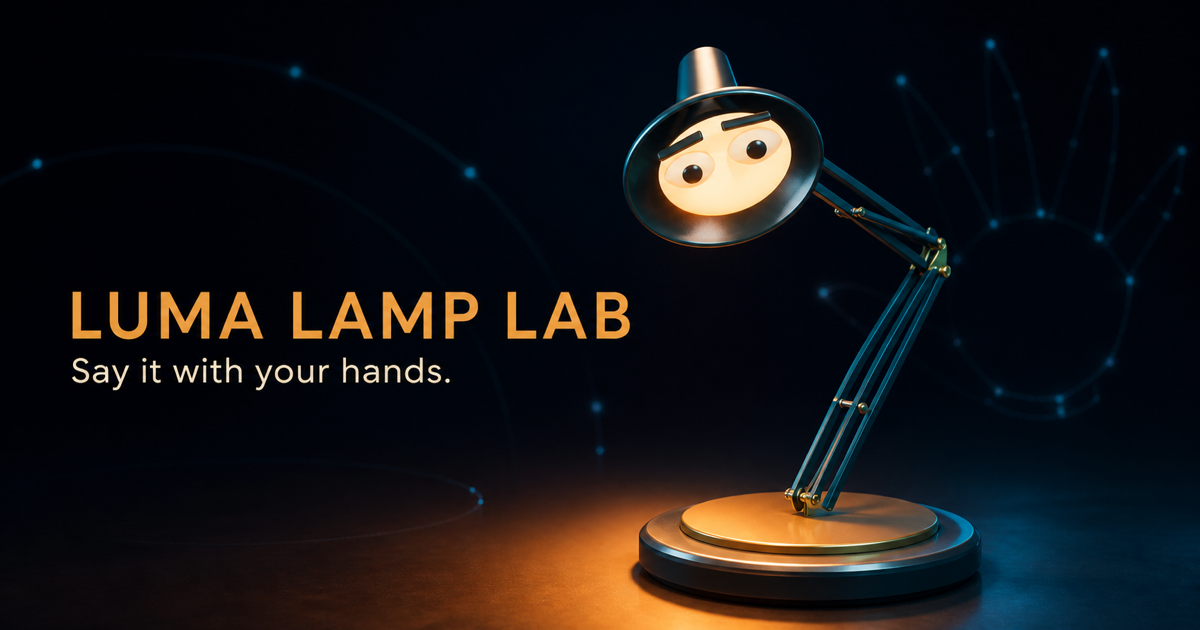
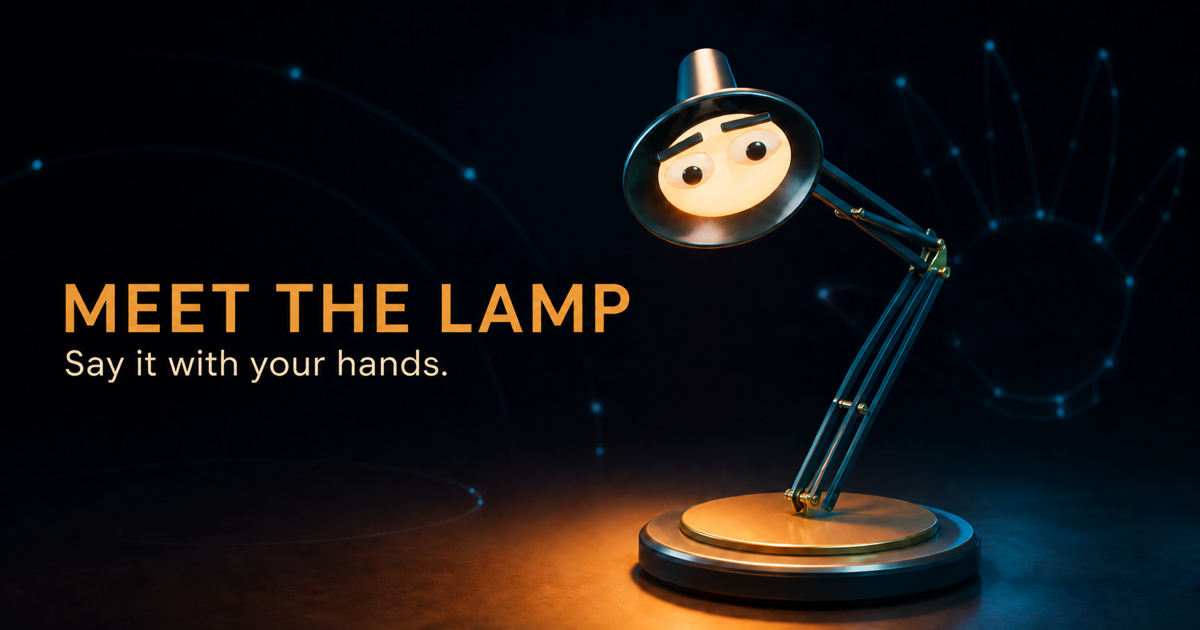
Remove lamp branding

diff --git a/projects/lamp/LampLab.tsx b/projects/lamp/LampLab.tsx
@@ -297,7 +297,7 @@ function createLampScene(
   const beamTargetPoint = new THREE.Vector3();
 
   new GLTFLoader().load(
-    "/lamp/luma-character-lamp.glb",
+    "/lamp/character-lamp.glb",
     (gltf) => {
       lamp = gltf.scene;
       lamp.scale.setScalar(1.43);
@@ -751,7 +751,7 @@ export default function LampLab() {
 
   useEffect(() => {
     let cancelled = false;
-    const saved = localStorage.getItem("luma-gesture-mappings");
+    const saved = localStorage.getItem("lamp-gesture-mappings");
     if (!saved) return;
     try {
       const parsed = JSON.parse(saved) as Partial<GestureMappings>;
@@ -759,14 +759,14 @@ export default function LampLab() {
         if (!cancelled) setMappings({ ...DEFAULT_MAPPINGS, ...parsed });
       });
     } catch {
-      localStorage.removeItem("luma-gesture-mappings");
+      localStorage.removeItem("lamp-gesture-mappings");
     }
     return () => { cancelled = true; };
   }, []);
 
   useEffect(() => {
     mappingsRef.current = mappings;
-    localStorage.setItem("luma-gesture-mappings", JSON.stringify(mappings));
+    localStorage.setItem("lamp-gesture-mappings", JSON.stringify(mappings));
   }, [mappings]);
 
   useEffect(() => {
@@ -1000,7 +1000,7 @@ export default function LampLab() {
           setStatusText(
             update.observation
               ? `${GESTURE_LABELS[update.observation.gesture]} · ${Math.round(update.observation.confidence * 100)}%`
-              : "Show Luma a gesture",
+              : "Show the lamp a gesture",
           );
         }
       }
@@ -1072,7 +1072,7 @@ export default function LampLab() {
       waveDetectorRef.current.reset();
       setCameraLive(true);
       setPhase("active");
-      setStatusText("Show Luma a gesture");
+      setStatusText("Show the lamp a gesture");
     } catch (error) {
       console.error(error);
       streamRef.current?.getTracks().forEach((track) => track.stop());
@@ -1293,7 +1293,7 @@ export default function LampLab() {
       const href = URL.createObjectURL(blob);
       const anchor = document.createElement("a");
       anchor.href = href;
-      anchor.download = "luma-performance.webm";
+      anchor.download = "lamp-performance.webm";
       anchor.click();
       setTimeout(() => URL.revokeObjectURL(href), 500);
     };
@@ -1318,7 +1318,7 @@ export default function LampLab() {
     if (phase === "active") return "Tracking live";
     if (phase === "loading") return "Loading local vision";
     if (phase === "error") return "Permission needed";
-    return modelReady ? "Luma ready" : "Preparing Luma";
+    return modelReady ? "Lamp ready" : "Preparing lamp";
   }, [modelReady, phase]);
 
   return (
@@ -1326,7 +1326,7 @@ export default function LampLab() {
       className="lamp-shell"
       data-phase={phase}
       data-panel={panelOpen ? "open" : "closed"}
-      data-testid="luma-lamp-lab"
+      data-testid="lamp-lab"
     >
       <canvas ref={canvasRef} className="lamp-stage" aria-label="Expressive articulated 3D character lamp" />
       <div className="lamp-atmosphere" />
@@ -1335,7 +1335,7 @@ export default function LampLab() {
       <header className="lamp-topbar">
         <a className="lamp-brand" href="/" aria-label="Back to experiments">
           <span className="lamp-brand-mark">L</span>
-          <span>LUMA / BEHAVIOUR LAB</span>
+          <span>LAMP</span>
         </a>
         <div className="lamp-system">
           <span className="lamp-model-chip"><i className={modelReady ? "ready" : ""} /> CC0 ARTICULATED MODEL</span>
@@ -1349,11 +1349,11 @@ export default function LampLab() {
       </header>
 
       {(phase === "idle" || phase === "loading" || phase === "error") && (
-        <section className="lamp-intro" aria-labelledby="luma-title">
+        <section className="lamp-intro" aria-labelledby="lamp-title">
           <p className="lamp-kicker">A LAMP THAT LEARNS YOUR LANGUAGE</p>
-          <h1 id="luma-title">Meet Luma.<br /><em>Say it with your hands.</em></h1>
+          <h1 id="lamp-title">Meet the lamp.<br /><em>Say it with your hands.</em></h1>
           <p>
-            Point, wave, pause, or lean in. Luma reads your gestures locally and
+            Point, wave, pause, or lean in. The lamp reads your gestures locally and
             turns them into light, movement, and character.
           </p>
           <div className="lamp-intro-actions">
@@ -1397,7 +1397,7 @@ export default function LampLab() {
 
       <aside className={`lamp-editor ${panelOpen ? "open" : ""}`} aria-label="Lamp behavior editor">
         <div className="lamp-editor-head">
-          <div><small>PERSONALITY PACK</small><strong>Teach Luma</strong></div>
+          <div><small>PERSONALITY PACK</small><strong>Teach the lamp</strong></div>
           <button type="button" onClick={() => setPanelOpen(false)} aria-label="Close behavior editor">×</button>
         </div>
         <label className="lamp-field">
@@ -1410,7 +1410,7 @@ export default function LampLab() {
           <label><span>Brightness <b>{Math.round(settings.brightness * 100)}%</b></span><input type="range" min="0.05" max="1" step="0.05" value={settings.brightness} onChange={(event) => setSettings((current) => ({ ...current, brightness: Number(event.target.value) }))} /></label>
           <label className="lamp-color-field"><span>Light color</span><input type="color" value={settings.lightColor} onChange={(event) => setSettings((current) => ({ ...current, lightColor: event.target.value }))} /></label>
         </div>
-        <div className="lamp-mapping-head"><span>Gesture</span><span>Luma responds with</span></div>
+        <div className="lamp-mapping-head"><span>Gesture</span><span>Lamp responds with</span></div>
         <div className="lamp-mappings">
           {GESTURES.map((gesture) => (
             <label key={gesture}>

diff --git a/projects/lamp/behaviorPack.ts b/projects/lamp/behaviorPack.ts
@@ -138,8 +138,8 @@ export async function downloadBehaviorPack(settings: PackSettings) {
     {
       name: "lamp-behaviour.json",
       bytes: json({
-        schema: "luma.behaviour-pack/v1",
-        name: `${settings.personality} Luma`,
+        schema: "lamp.behaviour-pack/v1",
+        name: `${settings.personality} lamp`,
         createdAt,
         personality: {
           name: settings.personality,
@@ -182,7 +182,7 @@ export async function downloadBehaviorPack(settings: PackSettings) {
     {
       name: "board-config.json",
       bytes: json({
-        schema: "luma.physical-board/v1",
+        schema: "lamp.physical-board/v1",
         joints: JOINT_LIMITS,
         updateRateHz: 50,
         servoSmoothing: settings.smoothness,
@@ -196,7 +196,7 @@ export async function downloadBehaviorPack(settings: PackSettings) {
     },
     {
       name: "audio/README.txt",
-      bytes: encoder.encode("Add local personality sounds or music here. Audio is never uploaded by Luma Lamp Lab.\n"),
+      bytes: encoder.encode("Add local personality sounds or music here. Audio is never uploaded by the lamp experience.\n"),
     },
     {
       name: "ATTRIBUTION.md",
@@ -207,24 +207,24 @@ export async function downloadBehaviorPack(settings: PackSettings) {
   ];
 
   try {
-    const response = await fetch("/lamp/luma-character-lamp.glb");
+    const response = await fetch("/lamp/character-lamp.glb");
     if (response.ok) {
       files.push({ name: "motion-clips.glb", bytes: new Uint8Array(await response.arrayBuffer()) });
     }
   } catch {
     // The JSON clip definitions remain a usable fallback when an asset fetch is blocked.
   }
-  download("luma-behaviour-pack.zip", new Blob([zipStore(files)], { type: "application/zip" }));
+  download("lamp-behaviour-pack.zip", new Blob([zipStore(files)], { type: "application/zip" }));
 }
 
 export function downloadSessionReplay(events: SessionEvent[]) {
   download(
-    "luma-session-replay.json",
+    "lamp-session-replay.json",
     new Blob(
       [
         JSON.stringify(
           {
-            schema: "luma.session-replay/v1",
+            schema: "lamp.session-replay/v1",
             createdAt: new Date().toISOString(),
             mappings: DEFAULT_MAPPINGS,
             events,

diff --git a/projects/lamp/gestureEngine.ts b/projects/lamp/gestureEngine.ts
@@ -277,7 +277,7 @@ const clamp = (value: number, minimum: number, maximum: number) =>
 
 /**
  * Maps raw MediaPipe coordinates into the mirrored selfie view used by the UI.
- * The IK target is calibrated around Luma's authored rest pose, so looking at a
+ * The IK target is calibrated around the lamp's authored rest pose, so looking at a
  * centered person keeps the weighted base upright instead of solving toward an
  * unrelated full-extension target.
  */
@@ -297,7 +297,7 @@ export function mapCameraTrackingTarget(
   );
 
   const mirroredPointX = direction ? -direction.x : 0;
-  // MediaPipe's Y axis increases downward. Luma's positive head pitch also
+  // MediaPipe's Y axis increases downward. The lamp's positive head pitch also
   // looks downward, so the raw pointing direction already has the right sign.
   const pointY = direction ? direction.y : 0;
   return {

diff --git a/app/lamp/page.tsx b/app/lamp/page.tsx
@@ -3,12 +3,12 @@ import LampLab from "../../projects/lamp/LampLab";
 export default function LampPage() {
   return (
     <>
-      <title>Luma Lamp Lab</title>
+      <title>Meet the lamp</title>
       <meta
         name="description"
         content="Teach an expressive 3D character lamp gestures, movement, and personality with private on-device camera tracking."
       />
-      <meta property="og:title" content="Luma Lamp Lab" />
+      <meta property="og:title" content="Meet the lamp" />
       <meta property="og:image" content="/lamp/og.png" />
       <meta name="twitter:card" content="summary_large_image" />
       <meta name="twitter:image" content="/lamp/og.png" />

diff --git a/app/lamp/layout.tsx b/app/lamp/layout.tsx
@@ -5,17 +5,17 @@ const description =
   "Teach an expressive 3D character lamp gestures, movement, and personality with private on-device camera tracking.";
 
 export const metadata: Metadata = {
-  title: "Luma Lamp Lab",
+  title: "Meet the lamp",
   description,
   openGraph: {
-    title: "Luma Lamp Lab",
+    title: "Meet the lamp",
     description,
     type: "website",
     images: ["/lamp/og.png"],
   },
   twitter: {
     card: "summary_large_image",
-    title: "Luma Lamp Lab",
+    title: "Meet the lamp",
     description,
     images: ["/lamp/og.png"],
   },

diff --git a/projects/lamp/README.md b/projects/lamp/README.md
@@ -1,14 +1,14 @@
-# Luma Lamp Lab
+# Lamp
 
-Luma is a browser-based control and behavior prototype for an expressive articulated character lamp. The experience runs at `/lamp` and keeps camera, landmark, microphone, and music analysis on the user's device.
+This is a browser-based control and behavior prototype for an expressive articulated character lamp. The experience runs at `/lamp` and keeps camera, landmark, microphone, and music analysis on the user's device.
 
 ## Runtime architecture
 
 - `LampLab.tsx` owns the Three.js scene, local MediaPipe hand/face tracking, procedural animation, local audio analysis, voice/clap input, recording, and the UI. Its camera view reuses Punch Power's exact sculpted Three.js face-mask renderer.
 - `gestureEngine.ts` contains pure gesture classification, wave detection, two-bone IK, joint limits, and the debounced behavior state machine.
 - `behaviorPack.ts` creates a dependency-free ZIP containing mappings, animation names, light settings, safety parameters, the GLB, and a physical-controller configuration foundation.
-- `public/lamp/luma-character-lamp.glb` is the web model. Named transform nodes include `LampRoot`, `BaseYaw`, `Shoulder`, `Elbow`, `HeadPitch`, `HeadYaw`, `DriveWheelLeft`, `DriveWheelRight`, and `CasterWheel`. The three wheels roll with Luma's persistent, damped forward/back movement.
-- `art/lamp/luma-character-lamp.blend` is the editable source. The latest exact user-adjusted visual placement is backed up at `art/lamp/luma-character-lamp.user-placement-v2.blend`.
+- `public/lamp/character-lamp.glb` is the web model. Named transform nodes include `LampRoot`, `BaseYaw`, `Shoulder`, `Elbow`, `HeadPitch`, `HeadYaw`, `DriveWheelLeft`, `DriveWheelRight`, and `CasterWheel`. The three wheels roll with the lamp's persistent, damped forward/back movement.
+- The editable Blender source and placement backups live in `art/lamp/`.
 - Eye blinks drive both eye and pupil meshes through the same eased squash and opacity fade, so no pupil remains visible after the eyelids close.
 - The lamp stays visibly on through a head-tracked warm spotlight, bulb halo, and floor spill; sleep reduces these effects without switching them off. The light is intentionally atmospheric without a visible projection cone.
 - The head-pitch axis is seated in a dedicated steel neck axle with brass retaining collars, keeping the head visually connected through its full pitch movement.
@@ -24,4 +24,4 @@ The downloaded behavior pack is transport-agnostic. `board-config.json` provides
 
 ## Model source
 
-The base asset is **Desk Lamp Arm 01** by Kuutti Siitonen and Yann Kervran from Poly Haven, licensed CC0. Luma adds the character face, emissive lighting, materials, hierarchy, and animation pivots used by this prototype.
+The base asset is **Desk Lamp Arm 01** by Kuutti Siitonen and Yann Kervran from Poly Haven, licensed CC0. This project adds the character face, emissive lighting, materials, hierarchy, and animation pivots used by the prototype.

diff --git a/public/lamp/ATTRIBUTION.md b/public/lamp/ATTRIBUTION.md
@@ -1,8 +1,8 @@
-# Luma character lamp asset
+# Character lamp asset
 
 The articulated arm geometry is derived from **Desk Lamp Arm 01** by Kuutti Siitonen (modeling/texturing) and Yann Kervran (rigging), published by Poly Haven under CC0.
 
 - Source: https://polyhaven.com/a/desk_lamp_arm_01
 - License: https://polyhaven.com/license
 
-The weighted base, web-ready joint hierarchy, materials, light-face, eyes, brows, and export preparation were created for the Luma Lamp Lab project.
+The weighted base, web-ready joint hierarchy, materials, light-face, eyes, brows, and export preparation were created for this character lamp project.
